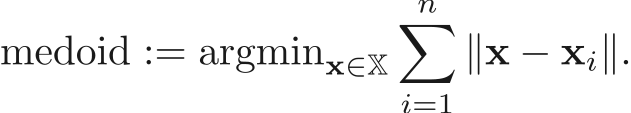
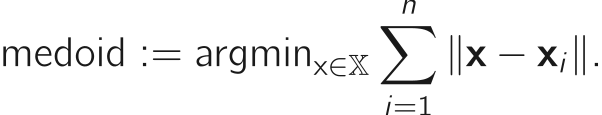
Change font.

diff --git a/README.md b/README.md
@@ -5,5 +5,5 @@ Fast implementations of some high-dimensional medians.
 
 ## Medoid
 
-Given a finite set <img src="https://github.com/daleroberts/hdmedians/raw\/master/docs/97c2c0ac5d7c079601abd56a54c9475c.png?5be0d38a27&invert_in_darkmode" align=middle width=11.827860000000003pt height=22.564079999999983pt/> of <img src="https://github.com/daleroberts/hdmedians/raw\/master/docs/2ec6e630f199f589a2402fdf3e0289d5.png?80e331002b&invert_in_darkmode" align=middle width=8.239720500000002pt height=14.102549999999994pt/>-band pixel observations modelled by vectors <img src="https://github.com/daleroberts/hdmedians/raw\/master/docs/8ce46e21b12b0c15b3683b17029ce564.png?da5f5c18c5&invert_in_darkmode" align=middle width=122.772045pt height=24.56552999999997pt/>, the medoid of these observations is
-<p align="center"><img src="https://github.com/daleroberts/hdmedians/raw\/master/docs/5fa598c589391a29c5482b6734190b1a.png?776005272f&invert_in_darkmode" align=middle width=250.14pt height=44.878845pt/></p>
+Given a finite set <img src="https://github.com/daleroberts/hdmedians/raw\/master/docs/97c2c0ac5d7c079601abd56a54c9475c.png?invert_in_darkmode" align=middle width=11.82786pt height=22.564079999999983pt/> of <img src="https://github.com/daleroberts/hdmedians/raw\/master/docs/2ec6e630f199f589a2402fdf3e0289d5.png?invert_in_darkmode" align=middle width=8.99448pt height=15.467430000000002pt/>-band pixel observations modelled by vectors <img src="https://github.com/daleroberts/hdmedians/raw\/master/docs/8ce46e21b12b0c15b3683b17029ce564.png?invert_in_darkmode" align=middle width=118.723935pt height=24.56552999999997pt/>, the medoid of these observations is
+<p align="center"><img src="https://github.com/daleroberts/hdmedians/raw\/master/docs/5fa598c589391a29c5482b6734190b1a.png?invert_in_darkmode" align=middle width=238.55039999999997pt height=45.733214999999994pt/></p>
